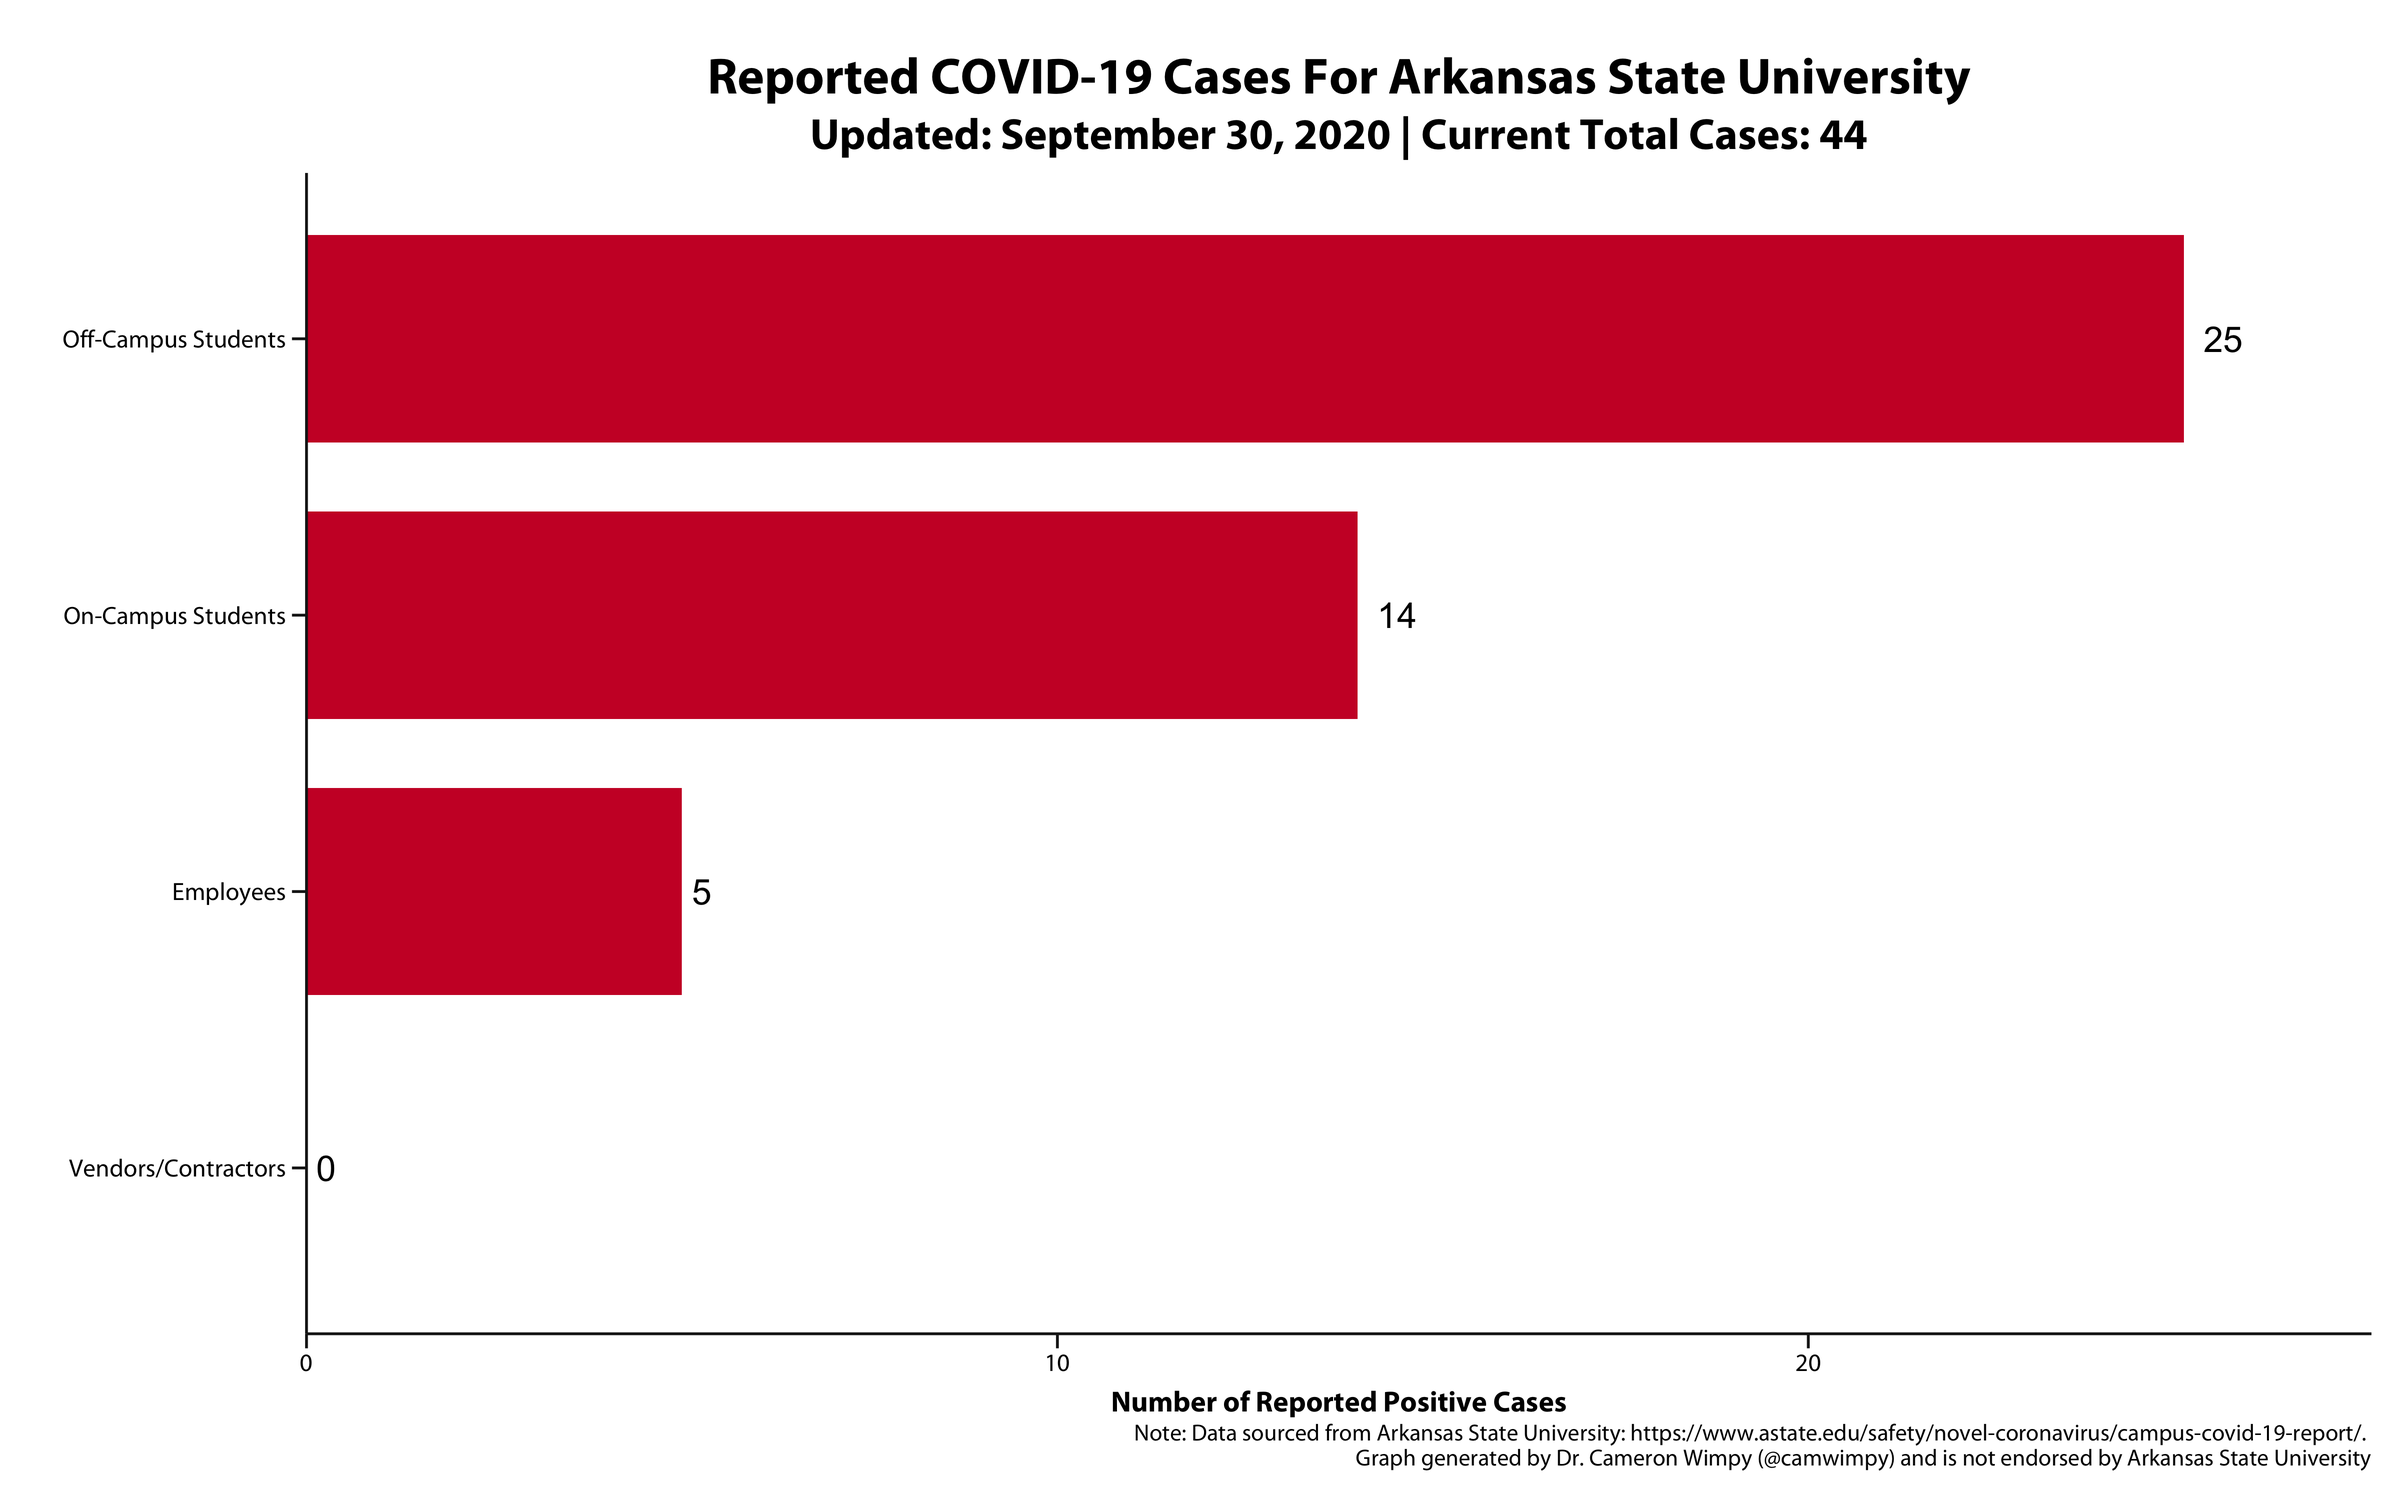
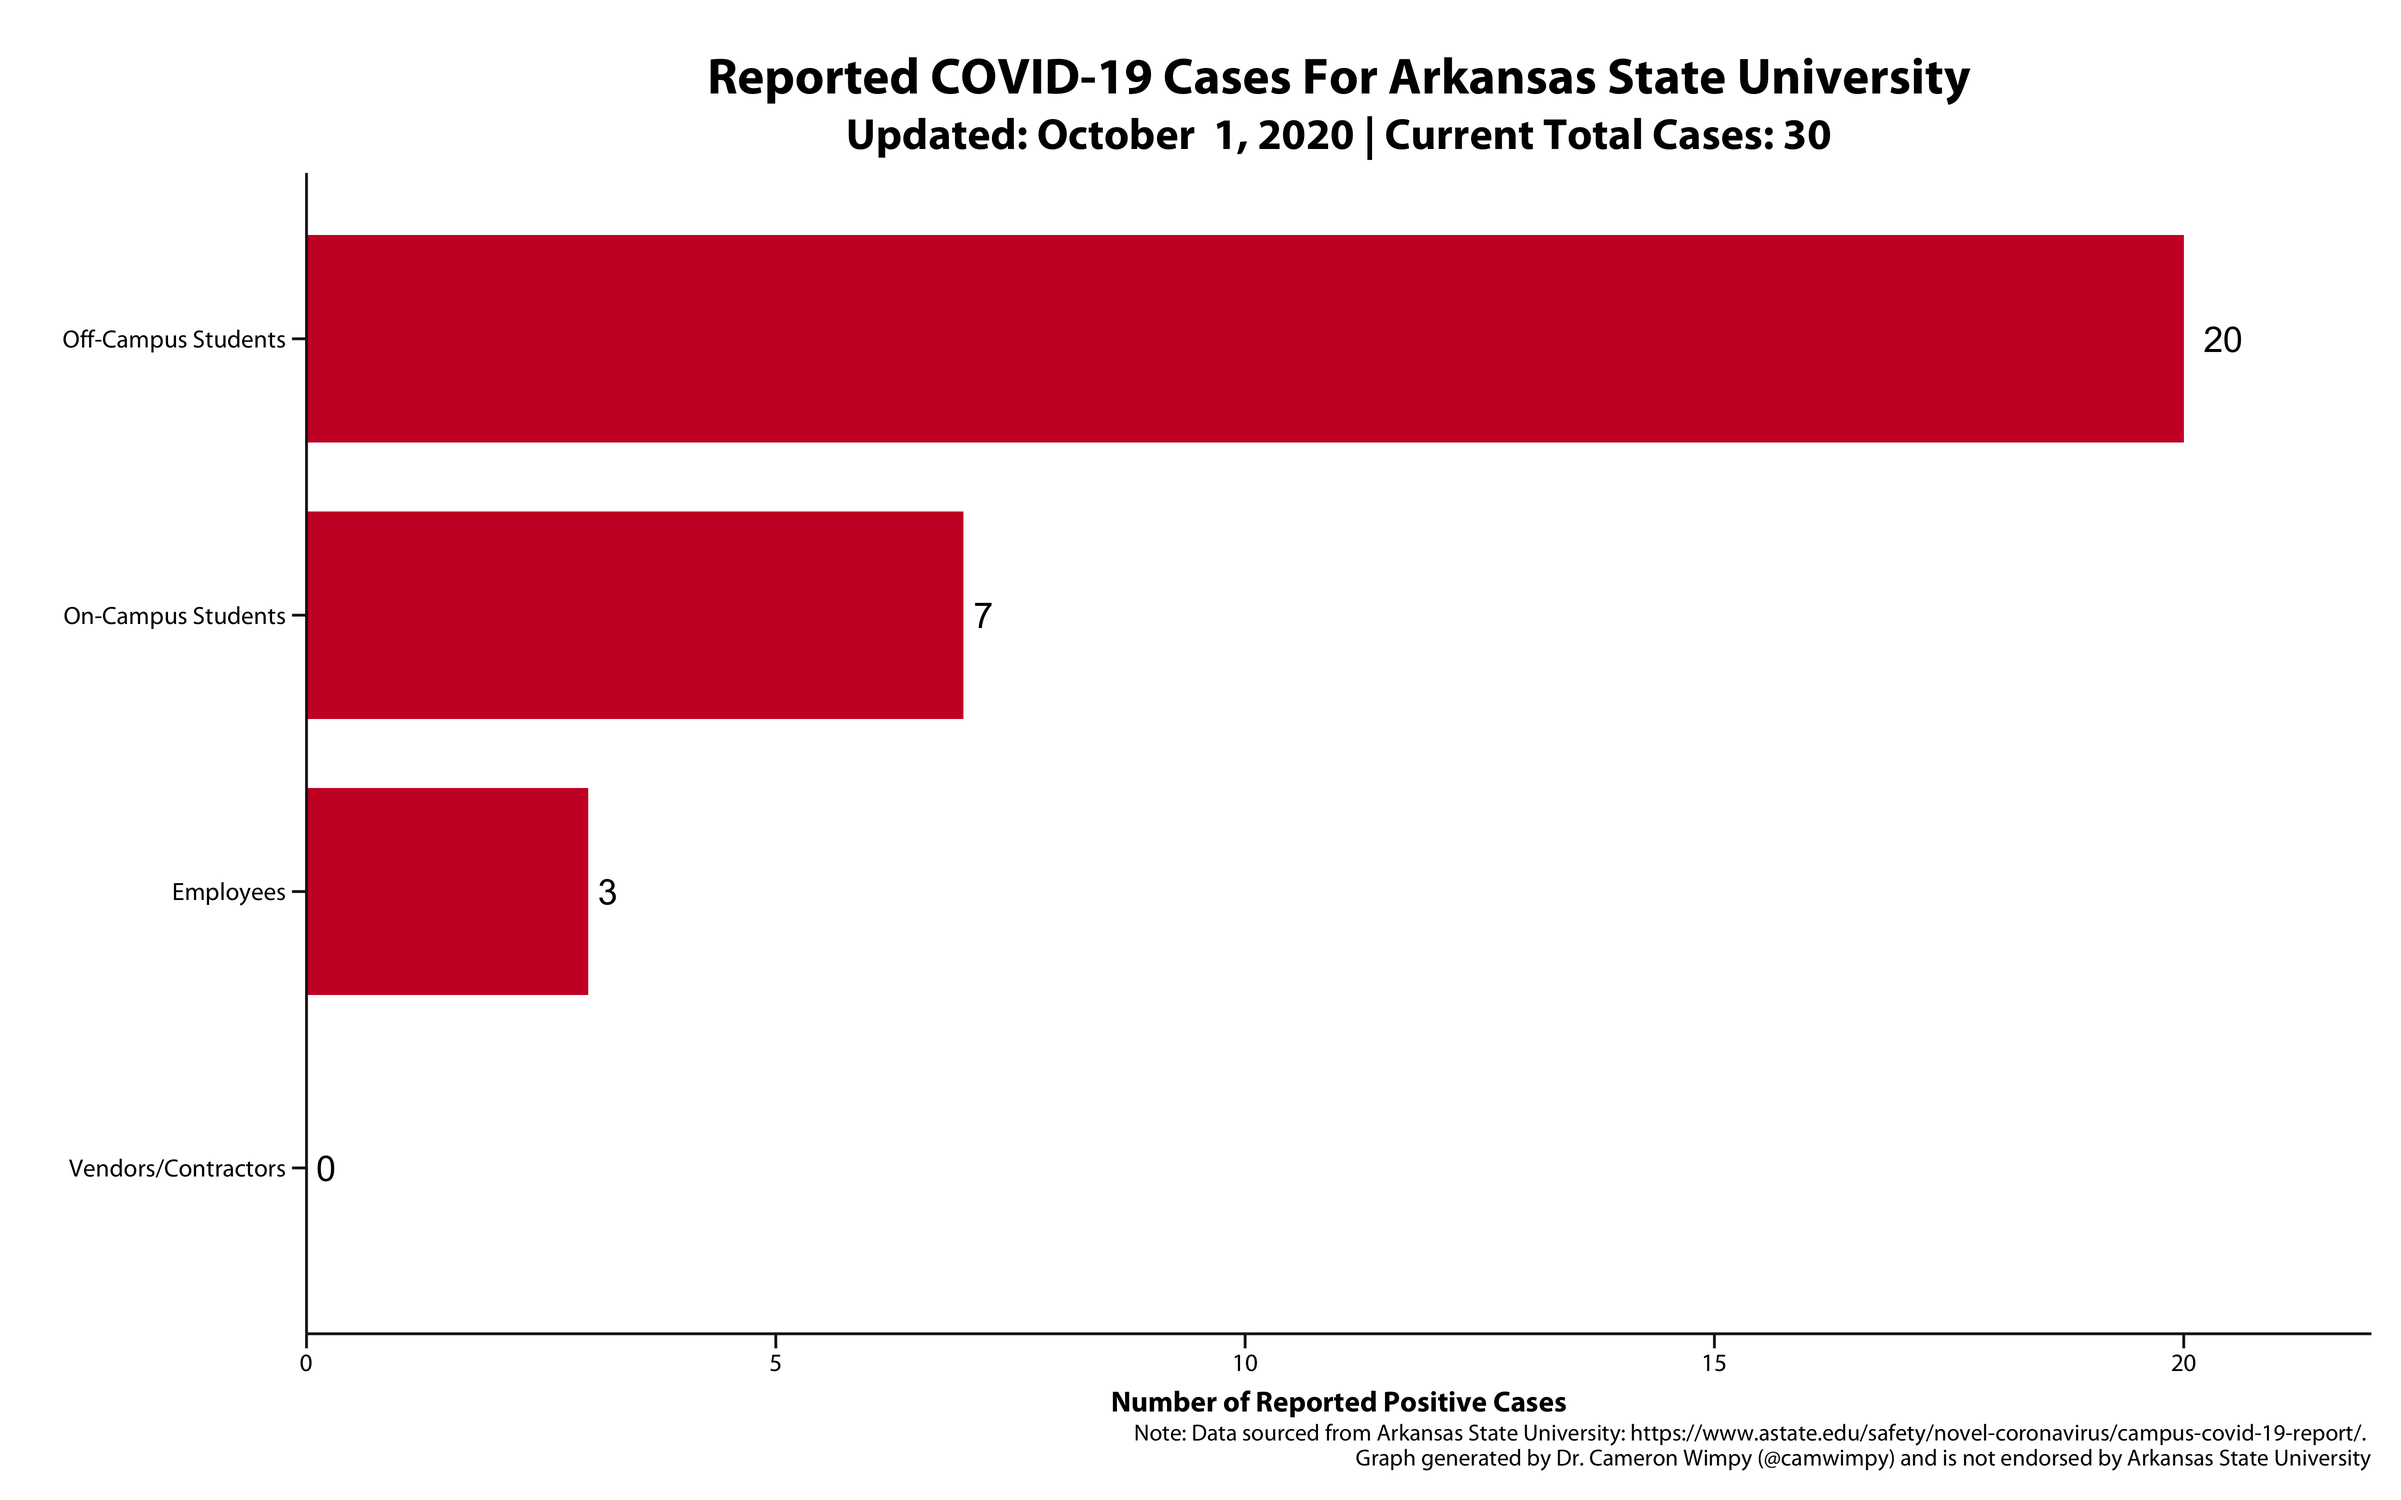
updated for Oct 1

Changed region(s): [[0.375, 0.341, 0.5938, 0.496], [0.3438, 0.062, 0.7812, 0.124], [0.2188, 0.527, 0.3125, 0.682]]

diff --git a/README.md b/README.md
@@ -10,4 +10,4 @@ This repo is dedicated to making graphs to track the Covid-19 outbreak at Arkans
 
 ![](images/bar.png)
 
-## Updated: September 30, 2020
+## Updated: October 1, 2020
